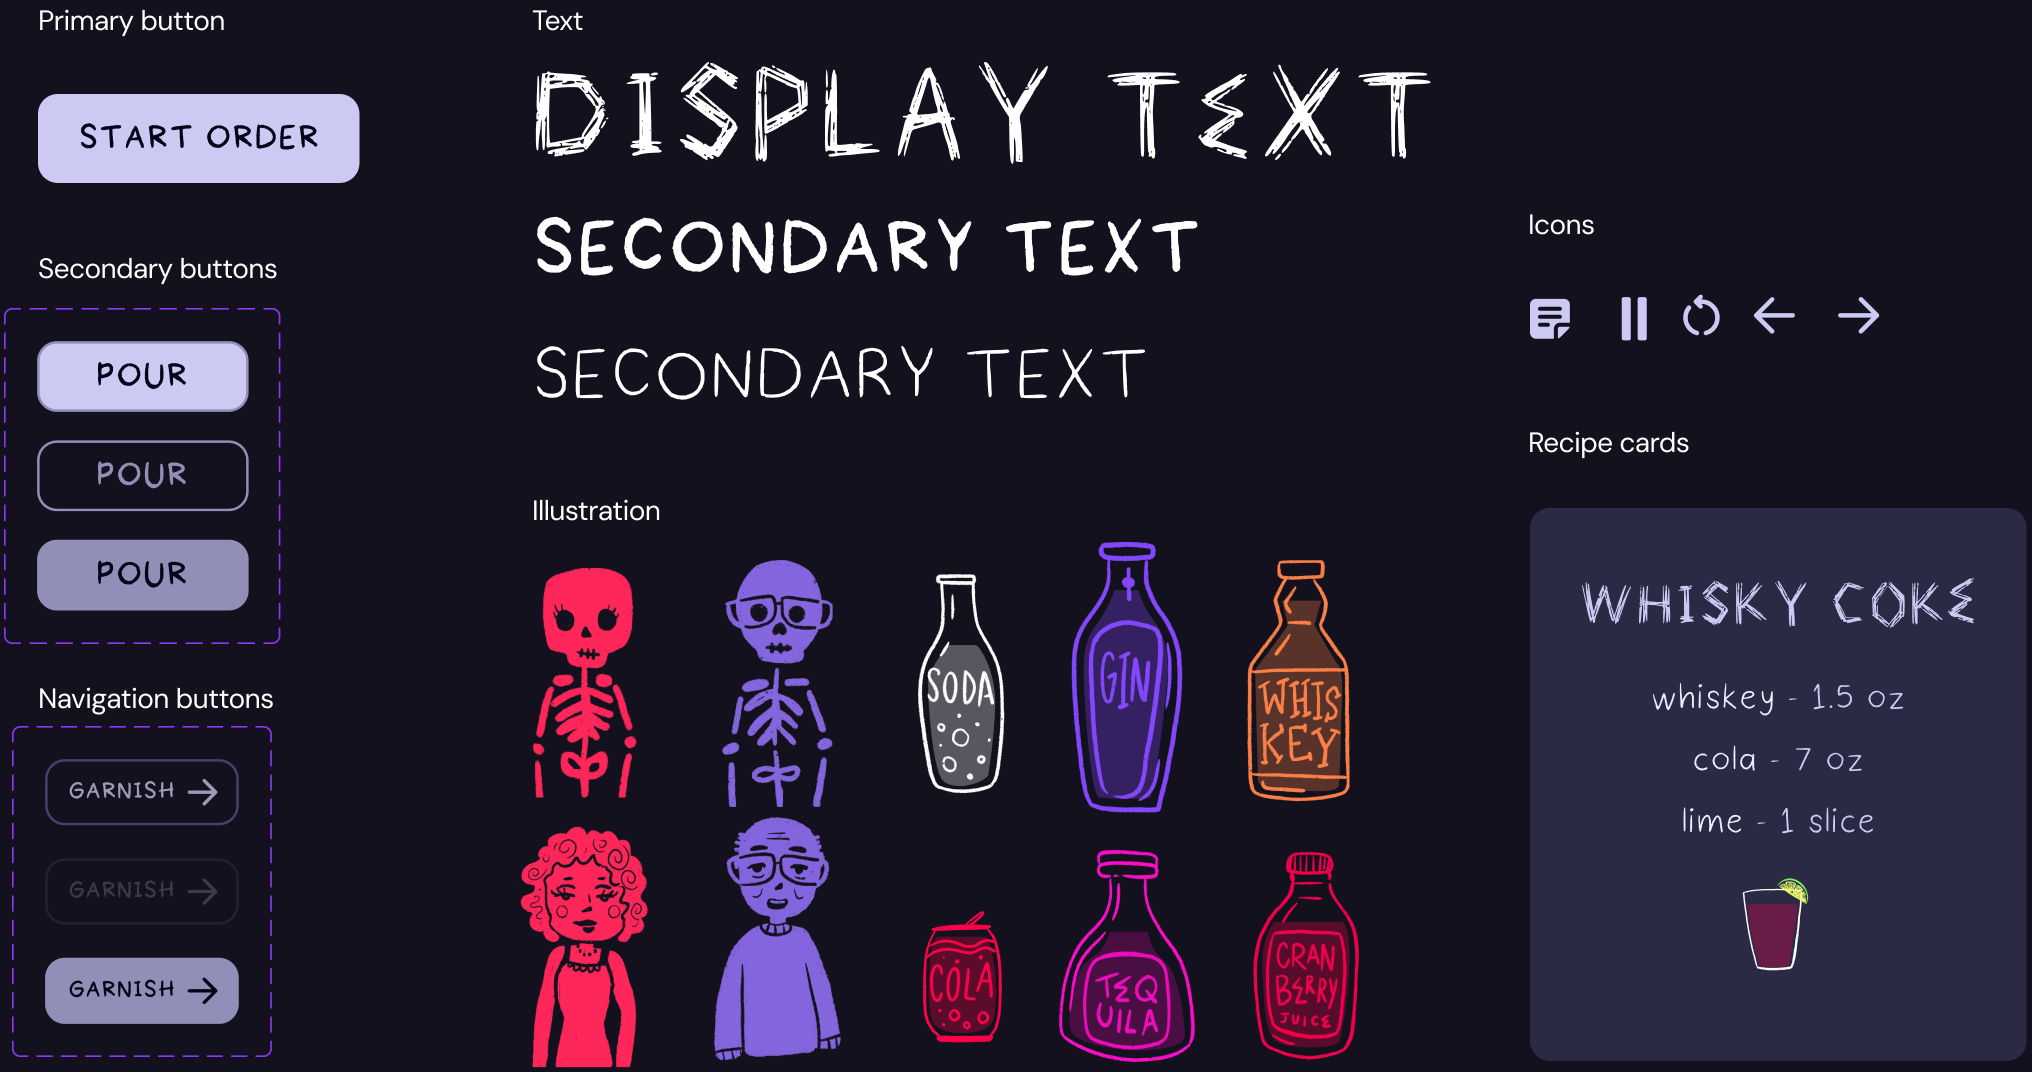
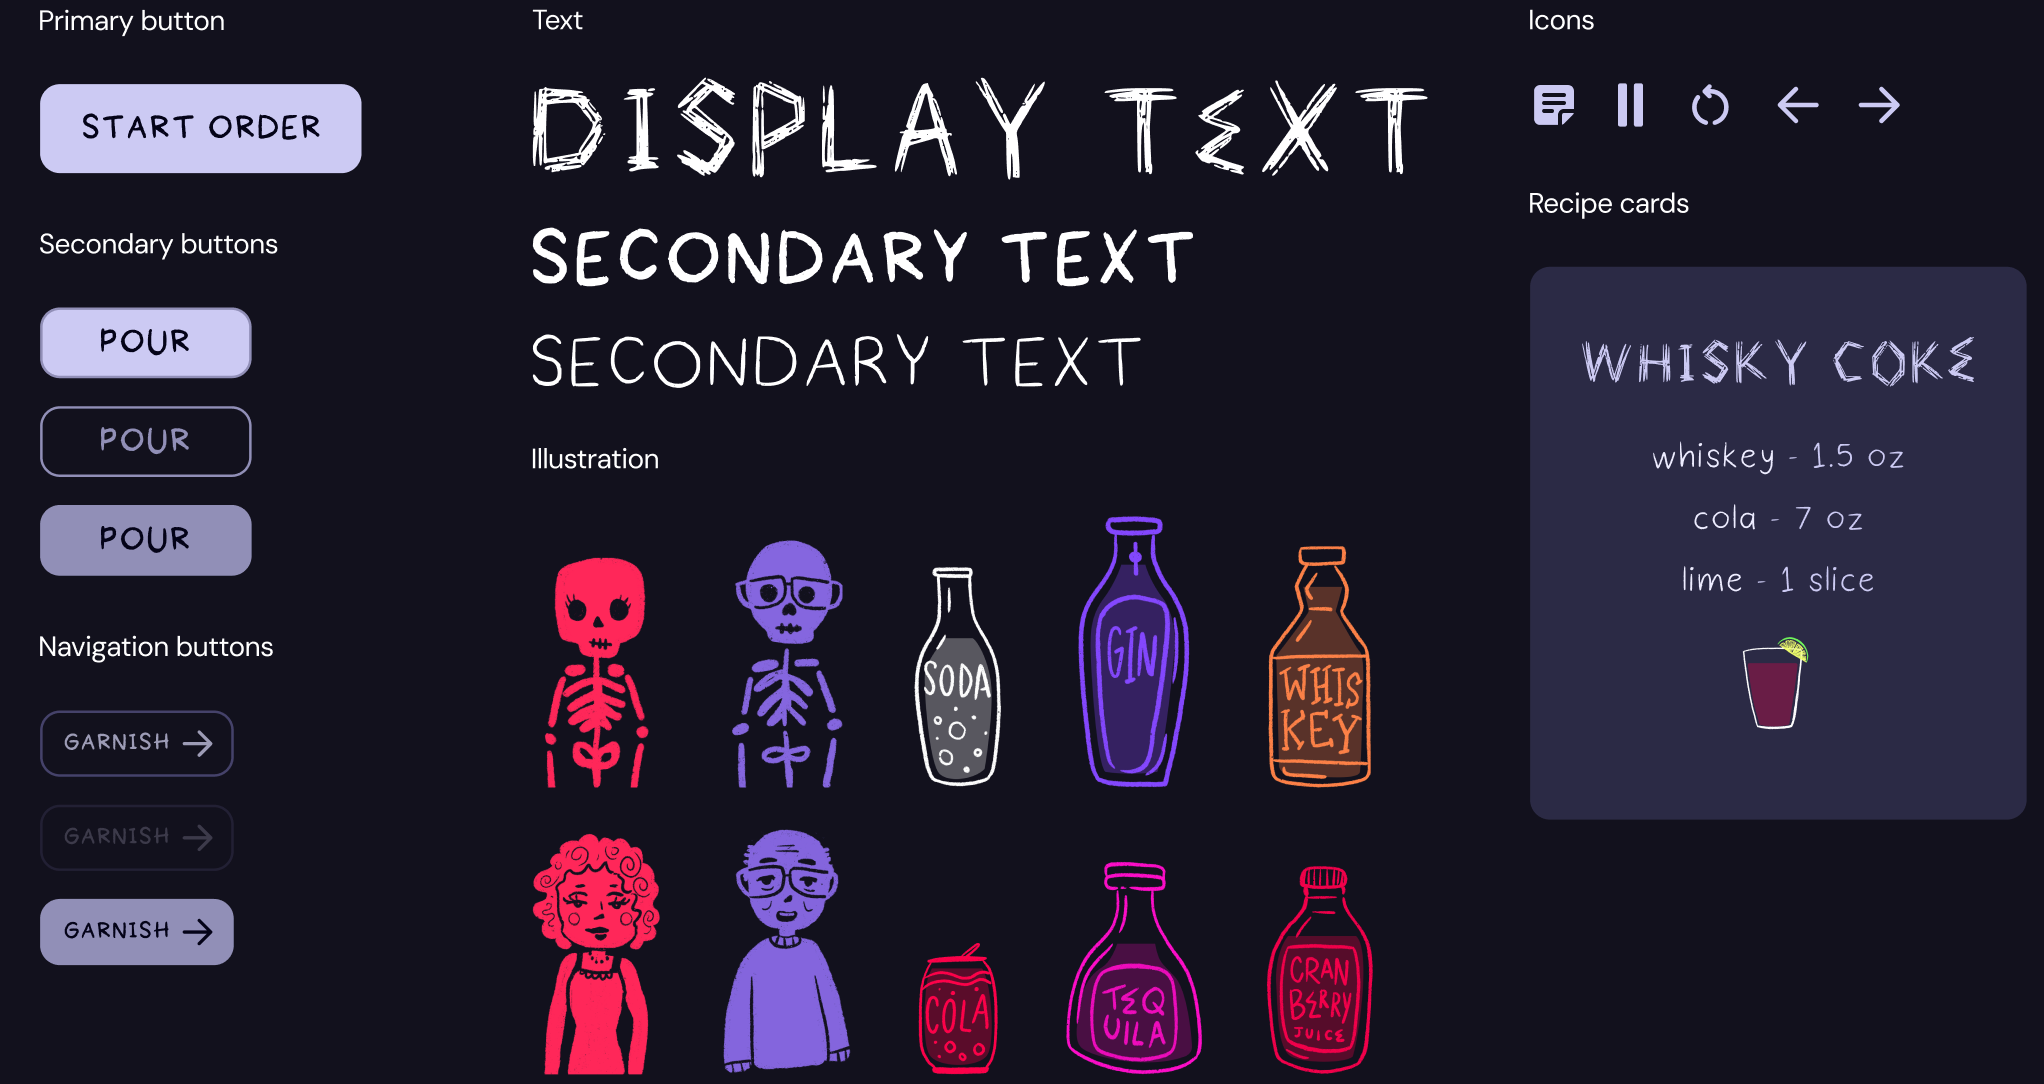
Bone Dry: design system board re-exported (no dashed outlines, even spacing)

diff --git a/bone-dry.html b/bone-dry.html
@@ -212,7 +212,7 @@
     <section class="bd-band bd-system">
       <div class="container">
         <h2 class="bd-h2" data-reveal>Design system</h2>
-        <img data-reveal class="bd-system__board" src="assets/images/bone-dry/design-system.png" width="2032" height="1072" alt="Bone Dry design system. Primary button: Start Order. Secondary buttons: Pour in three states. Navigation buttons: Garnish in three states. Text: display text and two weights of secondary text in the hand-made fonts. Illustration: skeleton and human customers and bottles. Icons: recipe, pause, restart, back and forward. A Whisky Coke recipe card." loading="lazy">
+        <img data-reveal class="bd-system__board" src="assets/images/bone-dry/design-system.png" width="2044" height="1084" alt="Bone Dry design system. Primary button: Start Order. Secondary buttons: Pour in three states. Navigation buttons: Garnish in three states. Text: display text and two weights of secondary text in the hand-made fonts. Illustration: skeleton and human customers and bottles. Icons: recipe, pause, restart, back and forward. A Whisky Coke recipe card." loading="lazy">
       </div>
     </section>
   </main>

diff --git a/css/style.css b/css/style.css
@@ -1048,9 +1048,9 @@ a { color: inherit; text-decoration: none; }
 .bd-round3__grid > .bd-fig:nth-child(5), .bd-round3__grid > .bd-fig:nth-child(6) { margin-top: 21px; } /* 11278 */
 .bd-round3__grid > .bd-fig:nth-child(7) { margin-top: 24px; } /* 11682 */
 .bd-start { padding: 172px 0 136px; } /* h2 12173; next band 12710 */
-.bd-system { padding: 92px 0 102px; background: #12111d; } /* band 12710 → 13595 */
+.bd-system { padding: 92px 0 100px; background: #12111d; } /* band 12710 → 13599 */
 .bd-system .bd-h2 { color: #ebebeb; }
-.bd .bd-system__board { width: 99.41%; margin-top: 116px; } /* 1016 wide at 209, 12957 */
+.bd .bd-system__board { width: 100%; margin-top: 115px; } /* full column at 12957 */
 .bd-start__grid { margin-top: 52px; }
 
 .page-bonedry .site-footer__social { color: var(--ink); }
